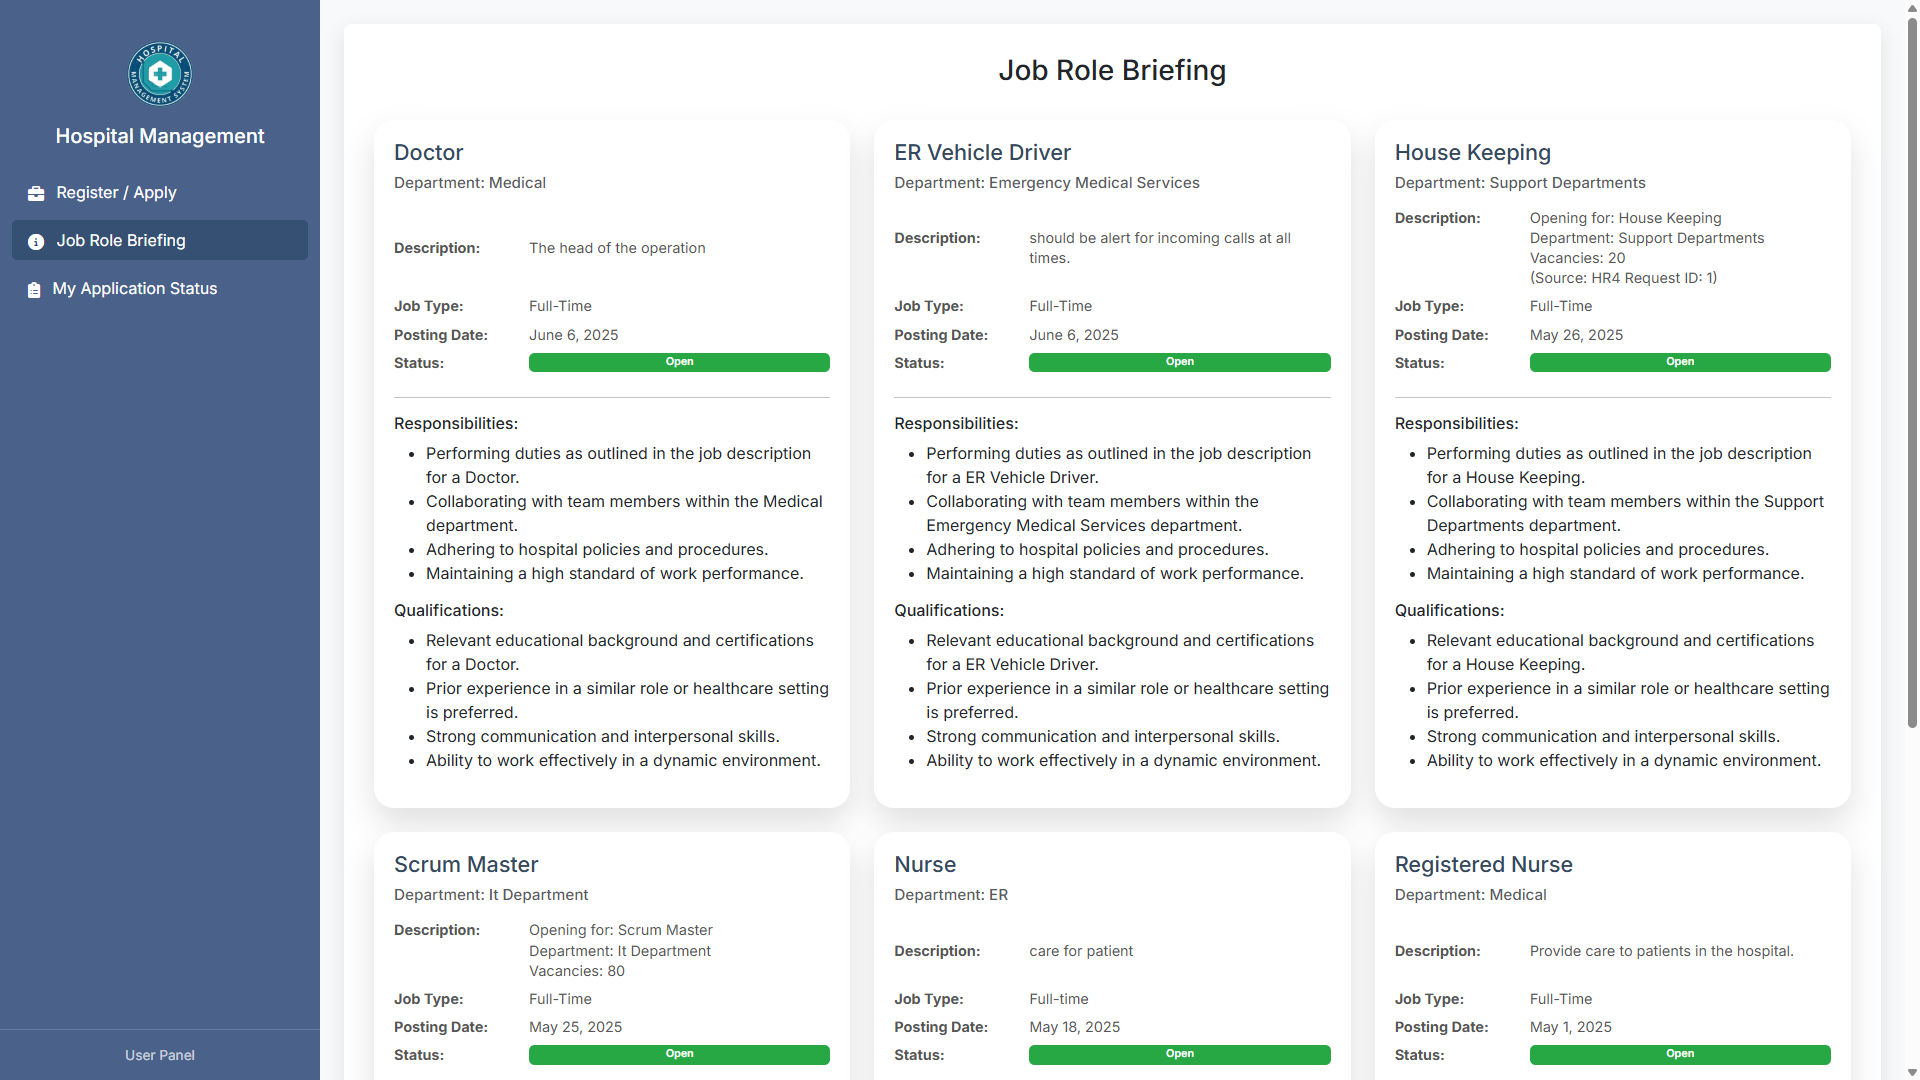
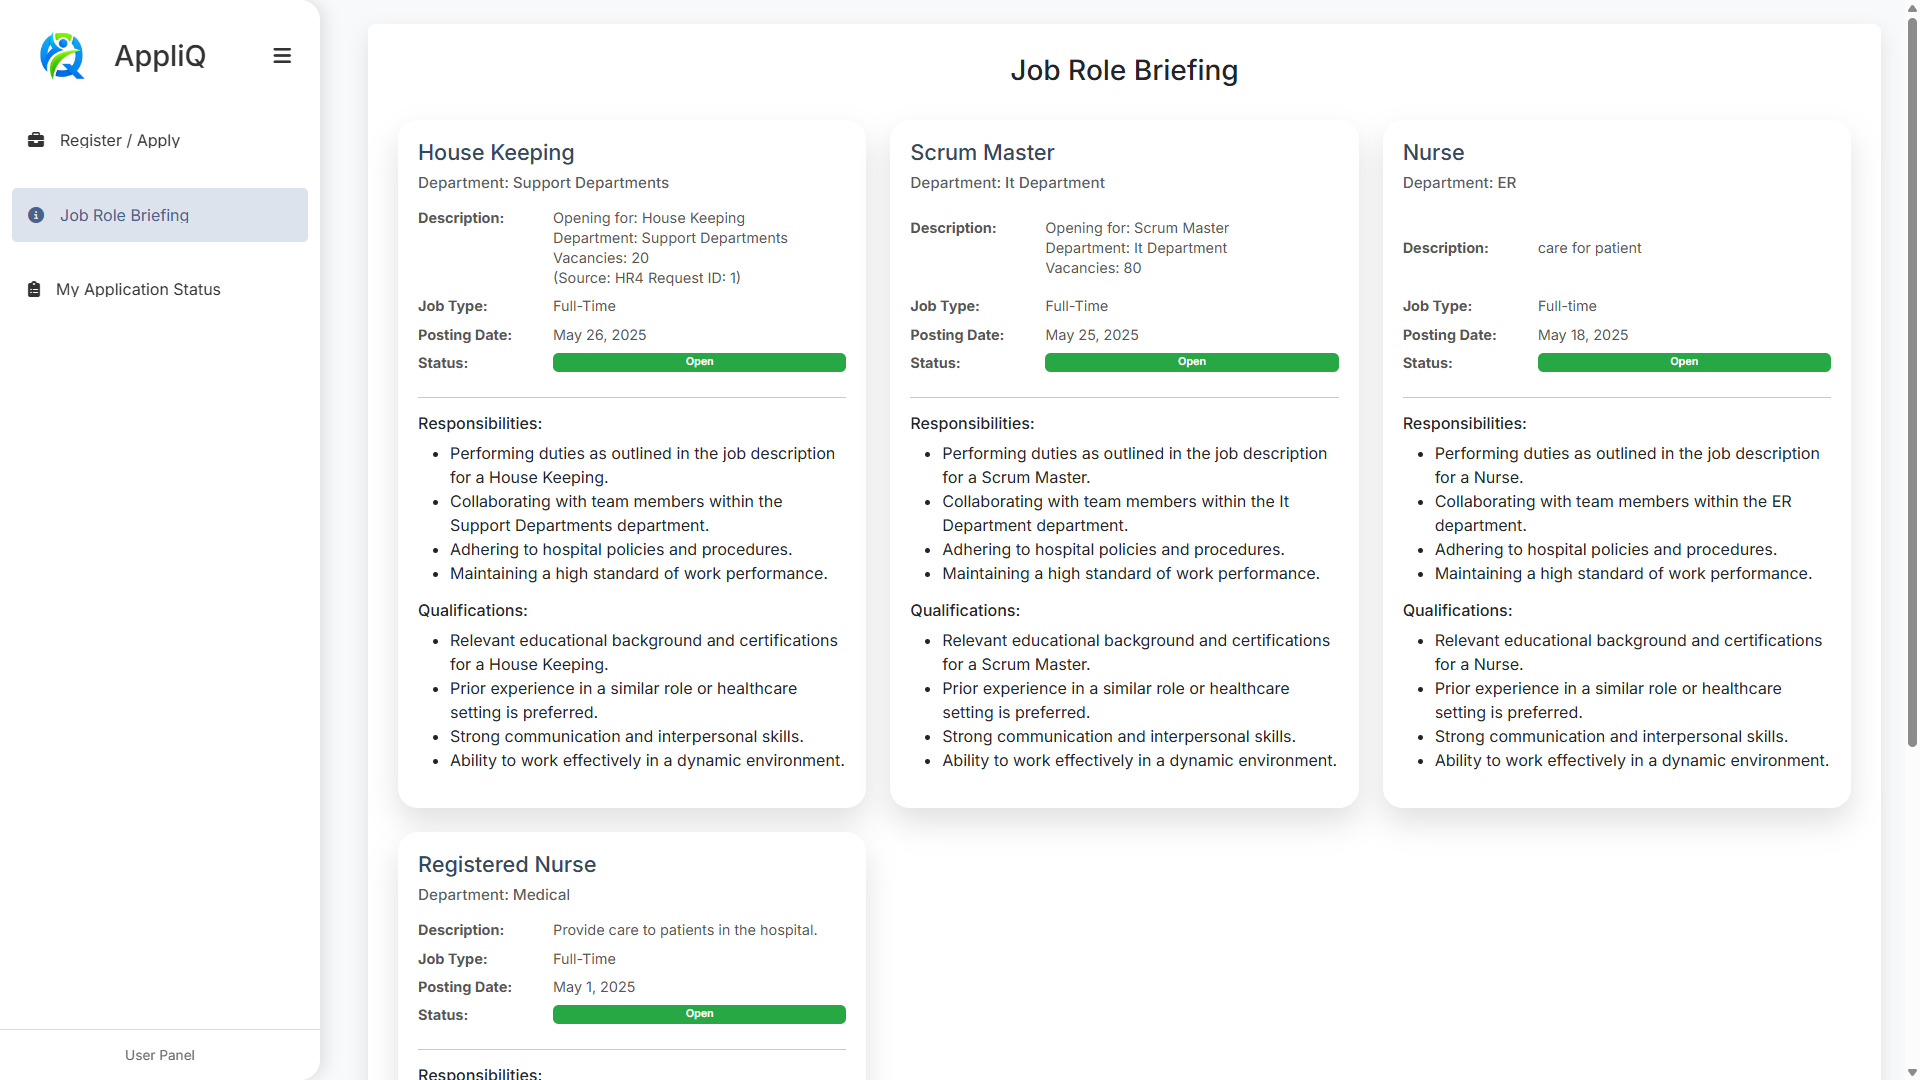
updated

diff --git a/index.php b/index.php
@@ -91,9 +91,9 @@
                                 onerror="this.onerror=null;this.src='https://placehold.co/400x250/F9FAFB/1A202C?text=Placeholder';"
                             />
                             <div class="project-info">
-                                <h3>Hospital Management System</h3>
+                                <h3>AppliQ</h3>
                                 <p>
-                                    A web-based application designed to streamline hospital operations, partricularly recruitment and applicant management.
+                                    A web-based system designed to streamline hospital operations, partricularly recruitment and applicant management.
                                     <br><br>
                                     Tools used: <strong>HTML, CSS, JavaScript, PHP, MySQL</strong>
                                 </p>
